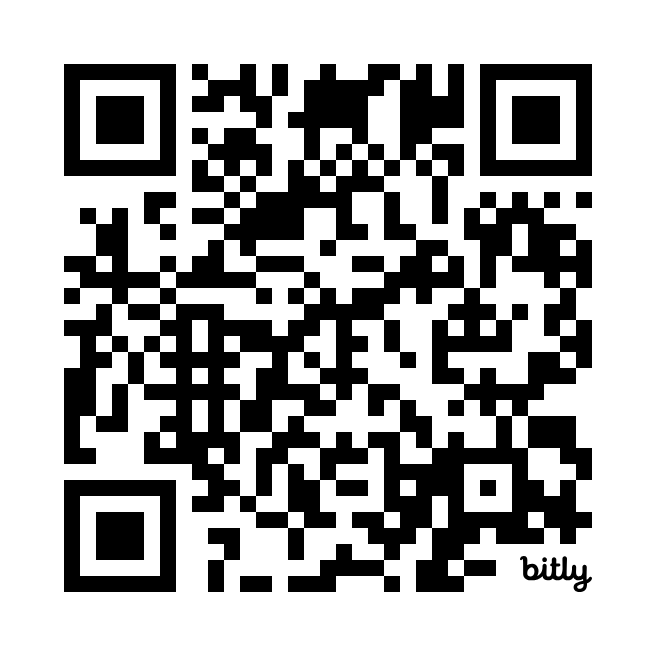
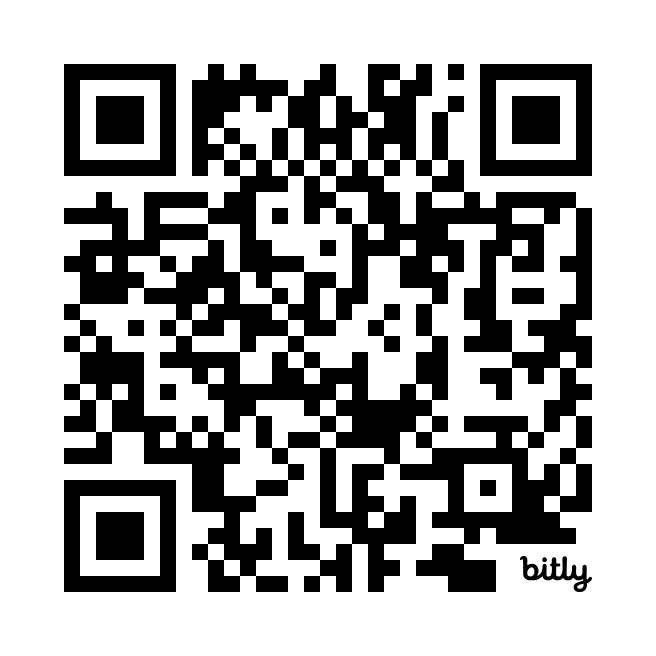
update readme

Changed region(s): [[0.0915, 0.0915, 0.9146, 0.9146], [0.0915, 0.2744, 0.1829, 0.3963], [0.2744, 0.8232, 0.3354, 0.8537]]

diff --git a/README.md b/README.md
@@ -24,7 +24,7 @@ Note : L’application Webfauna (preview) est installée en parallèle de l’
 
 <img src="images/qrcode.png" width="200"/>
 
-https://bit.ly/41mKCEq
+https://bit.ly/3ZZhEcp
 
 2. Un message de mise en garde peut s'afficher, confirmer le téléchargement "Télécharger quand même". Ce message s'affiche uniquement car le fichier est un exécutable mais il ne comporte aucun danger.
 
